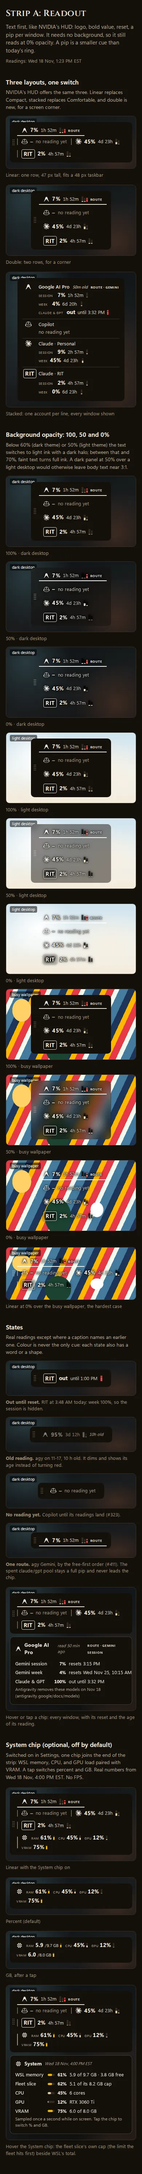
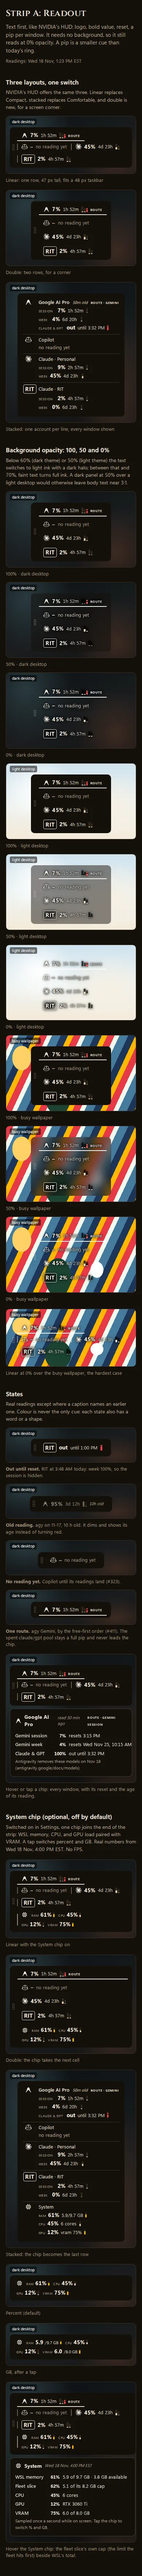
Mockups: phone fixes for the docked strip, re-shoot all 32 pages
At 390 the docked strip takes one chip per row so times stop wrapping
and the hide chevron stays inside the header; wallpaper tags get room
above the strip. Every page re-shot after the last edit.

diff --git a/docs/mockups/2026-11-18/wall-header.html b/docs/mockups/2026-11-18/wall-header.html
@@ -29,7 +29,8 @@
   @media (max-width: 640px) {
     .wbar.docked .dock { order: 3; flex: 1 1 100%; margin-right: 0; }
     .wbar.docked .tally { margin-right: auto; }
-    .dock .strip.double .items { grid-template-columns: auto auto; }
+    .dock .strip { flex: 1 1 auto; min-width: 0; }
+    .dock { align-items: flex-start; }
     .stage.short { padding-bottom: 120px; }
   }
 </style>
@@ -54,7 +55,7 @@
 <header><h1>Gauges: docked and pinned</h1><p class="trade">One gauge component in two homes, like Xbox Game Bar: docked in the wall header while the wall is open, and the floating strip, pinned on the desktop, while it is closed. While the wall has focus the floating strip hides, so the readings never show twice. The trade: the header gets busier.</p><p class="stamp">Readings: ${SNAP.takenAt}</p></header>
 
 <h2>Wall open: docked in the header</h2>
-<p>Strip A's linear layout between the tally and the tools (two rows on a phone). The chevron hides it; Settings › Gauges turns it back on.</p>
+<p>Strip A's linear layout between the tally and the tools (one chip per row on a phone). The chevron hides it; Settings › Gauges turns it back on.</p>
 <div class="stage short">${header(docked)}</div>
 
 <h2>Wall closed, or the wall in the background: the pinned strip</h2>

diff --git a/docs/mockups/2026-11-18/strip.css b/docs/mockups/2026-11-18/strip.css
@@ -31,6 +31,7 @@ figure { min-width: 0; }
   content: ""; position: absolute; left: 0; top: 22%; height: 56%; width: 1.5px; background: var(--panel-dim); opacity: 0.55;
 }
 .ra .ico, .ra .mono { font-size: 15px; }
+.ra :is(.val, .when) { white-space: nowrap; }
 .ra .ico { width: 17px; height: 17px; }
 .pips { display: inline-flex; align-items: flex-end; gap: 2px; height: 15px; margin-left: 1px; }
 .pip { position: relative; width: 4px; height: 11px; border-radius: 1px; background: var(--track); overflow: hidden; }

diff --git a/docs/mockups/2026-11-18/mock.css b/docs/mockups/2026-11-18/mock.css
@@ -157,5 +157,5 @@ body {
   .sheet { padding: 20px 16px 48px; }
   .sheet h1 { font-size: 24px; }
   .sheet .stamp { margin-left: 0; }
-  .wp { padding: 16px 10px; }
+  .wp { padding: 30px 10px 16px; }
 }

diff --git a/docs/mockups/2026-11-18/review.md b/docs/mockups/2026-11-18/review.md
@@ -15,6 +15,17 @@ Both have the three NVIDIA layouts on one switch (linear, double, stacked), and 
 
 **Recommendation: A, with B's docked faces.** #438 makes 0% a real setting, and A reads best there. A is also the less wordy one you asked for (logo, value, time). The faces docked to their account fix the "separate avatars" problem in #421 and move over to A unchanged.
 
+## Gauges: docked and pinned (AJ 11-18)
+
+| Docked in the wall header | Phone |
+|---|---|
+| [![docked](shots/design-wall-header-1920-dark.webp)](shots/design-wall-header-1920-dark.webp) | [![phone](shots/design-wall-header-390-dark.webp)](shots/design-wall-header-390-dark.webp) |
+| [light](shots/design-wall-header-1920-light.webp) · [phone light](shots/design-wall-header-390-light.webp) | |
+
+One gauge component in two homes, like Xbox Game Bar, where a pinned widget stays on screen after the bar is closed and has its own transparency and click-through. Docked: strip A in the wall header, between the tally and the tools, whenever the wall is open, with a chevron to hide it. Pinned: today's floating strip for when the wall is closed. While the wall has focus the floating strip hides, so the readings never show twice. Settings › Gauges holds both: gauges in the wall header, floating strip on or off, its pinned opacity, click-through and Reset position.
+
+**Recommendation:** both on by default. The header copy costs no extra sampling, since one reader feeds both, and the floating strip stays the always-on view AJ uses most.
+
 ## System monitor (optional, AJ 11-18)
 
 | On the strip (both variants) | On the wall cards |
@@ -22,7 +33,7 @@ Both have the three NVIDIA layouts on one switch (linear, double, stacked), and 
 | [![A](shots/design-gauge-a-1920-dark.webp)](shots/design-gauge-a-1920-dark.webp) (bottom of each gauge page) | [![cards](shots/design-wall-cards-1920-dark.webp)](shots/design-wall-cards-1920-dark.webp) |
 | One System chip, off by default: WSL memory, CPU, GPU load with VRAM; a tap switches % and GB; the hover adds the fleet slice's own cap. | Each card's footer shows its process tree's memory and CPU, with a thin bar for its share of the fleet cap; the tally adds the total. [light](shots/design-wall-cards-1920-light.webp) · [phone](shots/design-wall-cards-390-dark.webp) |
 
-Real numbers from 4:00 PM: WSL 5.9 of 9.7 GB (61%), fleet slice 5.1 of its 8.2 GB cap, CPU 45%, RTX 3060 Ti at 12% with 6.0 of 8.0 GB VRAM. The six agents' trees add up to 3.7 GB, the largest 909 MB (docsync). No FPS. Both settings rows (chip, and RAM/CPU on cards) sit in Settings › System, off.
+Real numbers from 4:00 PM: WSL 5.9 of 9.7 GB (61%), fleet slice 5.1 of its 8.2 GB cap, CPU 45%, RTX 3060 Ti at 12% with 6.0 of 8.0 GB VRAM. The six agents' trees add up to 3.7 GB of resident memory, the largest 909 MB (docsync); card CPU is per core, as top shows it. No FPS. The chip's switches sit in Settings › Gauges and the card line in Appearance, both off.
 
 **Recommendation:** ship the chip in A's grammar, in percent, with the hover as the place for GB and the fleet cap. The card line is cheap and answers "who is eating the 9.7 GB", so it is worth having as an option.
 
@@ -46,9 +57,9 @@ Both show agy's real `agy models` list, with the spent Claude & GPT group disabl
 | [light](shots/design-settings-a-1920-light.webp) · [phone dark](shots/design-settings-a-390-dark.webp) · [phone light](shots/design-settings-a-390-light.webp) | [light](shots/design-settings-b-1920-light.webp) · [phone dark](shots/design-settings-b-390-dark.webp) · [phone light](shots/design-settings-b-390-light.webp) |
 | Spotify's pattern: one page, bold section headings, the control at the right, search at the top. The trade: the 16-row sisters list makes it long. | Windows 11's pattern: a section rail with search, one card per setting. The trade: a second navigation system inside a small app. |
 
-Both hold every setting from the tray and the gear (#384's inventory), plus Show gauge strip (on; hidden, it stops sampling, and the tray brings it back), gauge layout, opacity and text-only mode, an Engines section with a switch per harness (off hides it from + New session and the strip and routing skips it; a missing binary shows Unavailable with its install hint), account icons, route order, the new-session default, the System chip and card RAM/CPU switches, and the sisters editor. The editor shows the real 16 projects from `~/.claude/techne.toml` (read only), each with its status and kind; all 16 have a clone. The tray shrinks to Open wall, Settings, Show gauge strip and Quit.
+Both hold every setting from the tray and the gear (#384's inventory), plus a Gauges section for both homes (wall header, floating strip with its pinned opacity, click-through and position, layout, text only, the System chip), an Engines section with a switch per harness (off hides it from + New session and the strip and routing skips it; a missing binary shows Unavailable with its install hint), account icons, route order, the new-session default, the card RAM/CPU switch, and the sisters editor. The editor shows the real 16 projects from `~/.claude/techne.toml` (read only), each with its status and kind; all 16 have a clone. The tray shrinks to Open wall, Settings, Floating strip and Quit.
 
-**Recommendation: A**, the Spotify page you named, with the sisters list folded under a "16 projects" expander (not drawn here) so the page stays short. Seven sections fit one scroll; a rail pays off only with many more.
+**Recommendation: A**, the Spotify page you named, with the sisters list folded under a "16 projects" expander (not drawn here) so the page stays short. Nine sections fit one scroll; a rail pays off only with many more. B draws Gauges, Engines and Sisters; its other pages hold the same rows as A.
 
 <details><summary>Sources and fidelity</summary>
 
@@ -57,6 +68,7 @@ Both hold every setting from the tray and the gear (#384's inventory), plus Show
 - Stats: per-module widget styles, including a bar chart comparing 5-hour and 7-day Claude usage ([mac-stats.com](https://mac-stats.com/), [solbish/stats](https://github.com/solbish/stats)). This is the model for the pips.
 - Windows widgets: the small size is for glanceable, focused content, with at most one touch point and 4.5:1 text contrast ([Microsoft Learn](https://learn.microsoft.com/en-us/windows/apps/design/widgets/widgets-design-fundamentals)).
 - Raycast menu bar: an icon with a short title, and an icon-only option ([Raycast API](https://developers.raycast.com/api-reference/user-interface/menu-bar-extra)). This is the model for logo plus value.
+- Xbox Game Bar: a pinned widget stays on screen after the bar is dismissed, with its own transparency and click-through ([pin](https://www.elevenforum.com/t/pin-and-unpin-game-bar-widgets-on-screen-in-windows-11.14466), [transparency](https://www.elevenforum.com/t/adjust-transparency-of-xbox-game-bar-pinned-widgets-in-windows-11.14550), [click-through](https://www.elevenforum.com/t/enable-or-disable-mouse-click-through-on-xbox-game-bar-pinned-widgets.14548)).
 - Settings rows: a header, an optional description and a right-aligned control; a section heading in BodyStrong; expanders one level deep ([Microsoft Learn, app settings](https://learn.microsoft.com/en-us/windows/apps/design/app-settings/guidelines-for-app-settings)), plus your Spotify reference shot.
 - Tabular figures stop numbers from jittering as they update ([MDN](https://developer.mozilla.org/docs/Web/CSS/font-variant-numeric)).
 - Split button, opacity and colour rules: the sources already cited in #440, #438 and #421.

diff --git a/IMPL.md b/IMPL.md
@@ -8,17 +8,14 @@ Static HTML/CSS mockups for AJ to pick from, in `docs/mockups/2026-11-18/`: two 
 
 ## Done
 - ✅ Pages: `gauge-{a,b}`, `new-session-{a,b}`, `settings-{a,b}`, `wall-cards`, `wall-header`; shared `mock.css`, `icons.js`, `readings.js` (every figure, frozen with its source).
-- ✅ Shots and review for the first 7 pages are pushed (`shots/*.webp`, `review.md`; briefing copies in fleet-briefing `shots/2026-11-18/` and `review/design-pass-2026-11-18.md`).
-- ✅ AJ's 11-18 additions are in the source: the System chip in all three strip layouts, per-card RAM/CPU, the Engines switches, and a Gauges settings section; `wall-header.html` shows the docked header and the pinned strip (Game Bar model).
-- ✅ Reviews: one Opus round and two verify passes on the first set, plus one round on the additions; every finding is fixed in the source.
+- ✅ AJ's 11-18 additions: System chip in all three strip layouts, per-card RAM/CPU, Engines switches, Show gauge strip, Gauges settings, docked header + pinned strip.
+- ✅ All 32 shots taken after the last edit (no overflow, clipping or console errors; strip 671 px A, 634 px B); WebP copies in `shots/`, PNGs and the review in fleet-briefing (`shots/2026-11-18/design-*`, `review/design-pass-2026-11-18.md`).
+- ✅ Phone fixes found by eye on the re-shoot: the docked strip is one chip per row (values no longer wrap, chevron no longer clipped); wallpaper tags no longer cover the strip.
+- ✅ Reviews: one Opus round and two verify passes on the first set, one round on the additions.
 
-## Next (stopped at RIT 94%, 11-18 17:15)
-- 📋 Re-shoot all 8 pages (32 PNGs): the settings pages, the gauge pages' System section and `wall-header` were never shot after their last edits. Command under Verify.
-- 📋 Look at `wall-header` at 1920 and 390 in both themes, and at the System chip's stacked row and A's 390 GPU+VRAM pair.
-- 📋 `python .scratch/finalize.py "[klepsydra#459](https://github.com/ajbarea/klepsydra/pull/459)"` (run with `uv run --no-project --with pillow`). It copies the PNGs to the briefing, writes the WebP copies, and writes both review files from `.scratch/review-template.md`. Before running it, fix its SCR and SHOTS paths to the new shots folder. Then commit and push.
-- 📋 PATCH the PR body from `.scratch/pr-body.md` (`gh api -X PATCH repos/ajbarea/klepsydra/pulls/459 --input` with a jq `{body}`). Update the shots/README entry to add `design-wall-header-*`. Send `.scratch/report.txt` to Heph, refreshed with the docked-gauges addition. Then `fleet done`.
-- `.scratch/` is untracked resume tooling: never commit it, and delete it once the PR is final.
+## Next
+- 📋 Waits on AJ's pick per surface (needs-you). Then one build PR per surface, from the picked page.
 
 ## Verify
 `cd docs/mockups/2026-11-18 && flock -o /tmp/fleet-heavy.lock timeout 900 uv run --no-project --with playwright python shoot.py OUT`
-prints each shot's overflow, clipped elements and console errors (all should read none) and the linear strip width (671 px A, 634 px B). `node .scratch/render-check.js "$PWD/docs/mockups/2026-11-18"` checks the renderers without a browser.
+prints each shot's overflow, clipped elements and console errors. Its clip check misses content pushed past a rounded container's edge: look at the 390 shots too.
